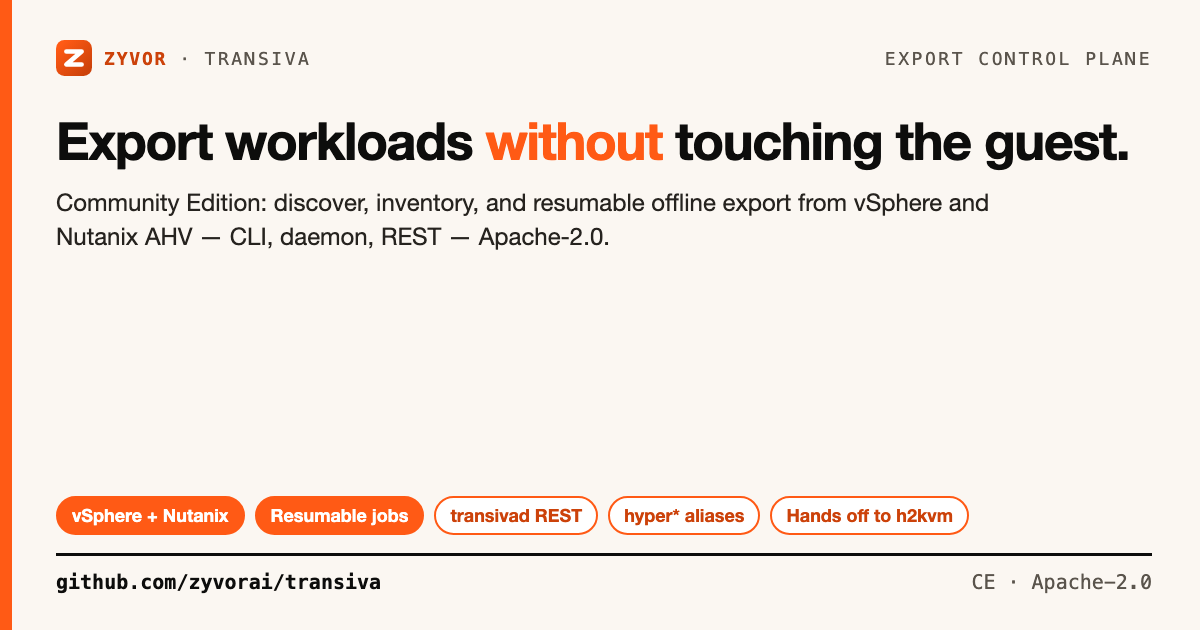
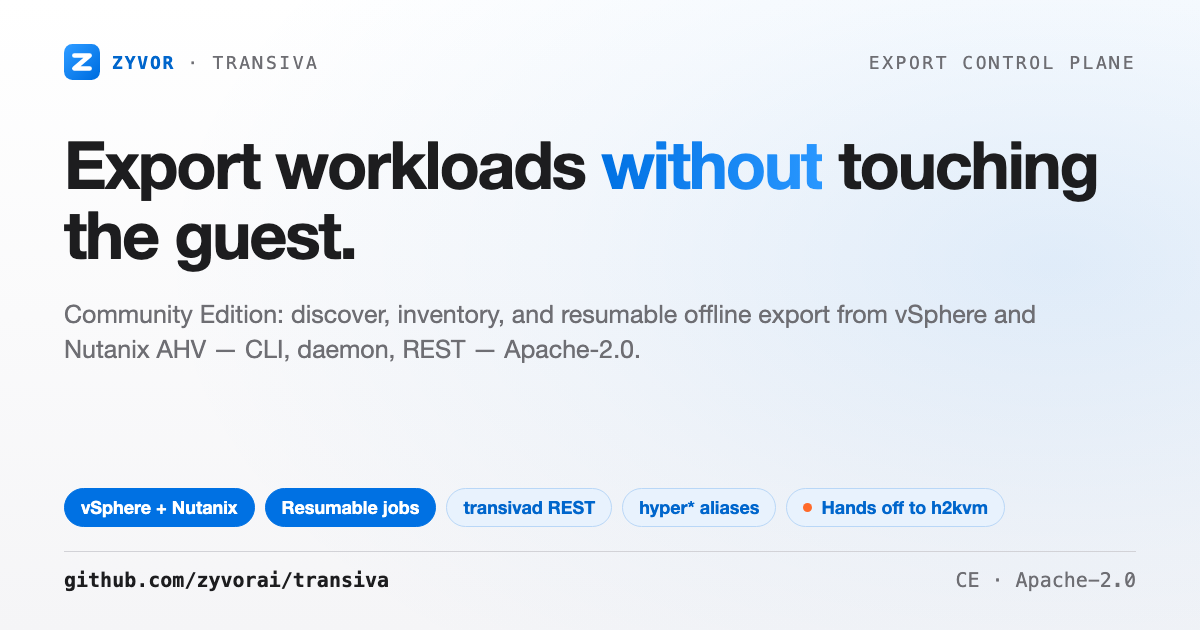
docs(social): apple-style blue/white cards, dark variant, build script
Restyle the share card and the 1600x900 story card in the blue/white palette
with a blue Zyvor mark and a single orange dot (the h2kvm hand-off), add a dark
share card for the README <picture>, and extend build-social-card.sh to render
it. Copy is unchanged and matches the Community Edition README.

Changed region(s): [[0.0, 0.0, 0.9867, 1.0], [0.7092, 0.0603, 0.9558, 0.1206], [0.4008, 0.3619, 0.5242, 0.3921]]

diff --git a/docs/social/transiva-social-card.html b/docs/social/transiva-social-card.html
@@ -4,59 +4,58 @@
 <meta charset="utf-8">
 <title>Transiva social card</title>
 <style>
-  :root { --ink:#0d0d0c; --soft:#5a544c; --signal:#ff5a15; --deep:#cc420a; --warm:#fbf7f2;
-    --blue:#2b5fd9; --green:#1f7a4d;
+  :root { --ink:#1d1d1f; --soft:#6e6e73; --hair:#d2d2d7; --blue:#0071e3; --blue2:#2997ff; --deep:#0066cc; --wash:#f5f5f7; --orange:#ff6a2a;
     --sans:'Helvetica Neue',Helvetica,Arial,sans-serif; --mono:'SF Mono',Menlo,Consolas,monospace; }
   * { box-sizing:border-box; }
   html,body { margin:0; padding:0; }
-  body { width:1600px; height:900px; overflow:hidden; background:var(--warm); color:var(--ink); font-family:var(--sans); position:relative; }
-  .bar { position:absolute; left:0; top:0; bottom:0; width:14px; background:var(--signal); }
-  .wrap { position:absolute; left:72px; right:64px; top:48px; bottom:40px; display:flex; flex-direction:column; }
+  body { width:1600px; height:900px; overflow:hidden; color:var(--ink); font-family:var(--sans); position:relative;
+    background:radial-gradient(1200px 700px at 90% 8%, rgba(0,113,227,.10), rgba(0,113,227,.03) 55%, rgba(0,113,227,0) 100%), linear-gradient(180deg,#fff 0%,var(--wash) 100%); }
+  .wrap { position:absolute; left:72px; right:72px; top:48px; bottom:40px; display:flex; flex-direction:column; }
   .top { display:flex; align-items:center; gap:14px; font-family:var(--mono); font-size:20px; letter-spacing:.14em; text-transform:uppercase; color:var(--soft); }
   .top img { height:40px; }
   .top b { color:var(--deep); letter-spacing:.1em; }
   .top .r { margin-left:auto; }
-  h1 { margin:26px 0 0; font-size:68px; line-height:1.06; letter-spacing:-.025em; font-weight:700; max-width:1440px; }
-  h1 em { font-style:normal; color:var(--signal); }
-  .sub { margin:16px 0 0; font-size:27px; line-height:1.36; color:#26231f; max-width:1320px; }
-  .flow { margin-top:34px; display:grid; grid-template-columns:repeat(5,1fr); gap:34px; }
-  .step { position:relative; background:#fff; border:2.5px solid var(--c); border-radius:16px; padding:18px 20px 18px 24px; min-height:222px; }
-  .step::before { content:""; position:absolute; left:0; top:0; bottom:0; width:9px; background:var(--c); border-radius:13px 0 0 13px; }
-  .step:not(:last-child)::after { content:""; position:absolute; right:-31px; top:50%; width:0; height:0; margin-top:-11px;
-    border-left:16px solid var(--soft); border-top:11px solid transparent; border-bottom:11px solid transparent; }
-  .lane { display:inline-block; font-family:var(--mono); font-size:15px; font-weight:700; letter-spacing:.12em; color:#fff; background:var(--c); padding:3px 10px; border-radius:11px; }
-  .n { float:right; width:34px; height:34px; border-radius:50%; background:var(--c); color:#fff; font-weight:700; font-size:19px; line-height:34px; text-align:center; }
-  .step h3 { margin:14px 0 8px; font-size:27px; line-height:1.14; letter-spacing:-.01em; }
-  .step p { margin:0; font-size:20.5px; line-height:1.34; color:var(--soft); }
-  .k { --c:var(--signal); } .a { --c:var(--ink); } .c { --c:var(--blue); } .o { --c:var(--green); } .o2 { --c:var(--deep); }
-  .attr { margin-top:22px; display:flex; align-items:center; gap:16px; background:var(--ink); color:#f3ede4; border-radius:12px; padding:13px 22px; font-family:var(--mono); font-size:22px; white-space:nowrap; }
-  .attr .tag { color:var(--signal); font-weight:700; letter-spacing:.1em; font-size:16px; }
-  .attr .why { margin-left:auto; color:#a39a8d; font-size:15px; letter-spacing:.06em; text-transform:uppercase; }
-  .chips { margin-top:auto; padding-top:22px; display:flex; flex-wrap:wrap; gap:10px; }
-  .chip { font-size:20px; font-weight:700; padding:5px 14px; border-radius:20px; background:var(--signal); color:#fff; border:2px solid var(--signal); }
-  .chip.g { background:#fff; color:var(--deep); border:2px solid var(--signal); }
-  .foot { margin-top:18px; padding-top:14px; border-top:3px solid var(--ink); display:flex; align-items:center; font-family:var(--mono); font-size:22px; color:var(--soft); }
+  h1 { margin:30px 0 0; font-size:74px; line-height:1.05; letter-spacing:-.034em; font-weight:700; max-width:1440px; }
+  h1 em { font-style:normal; background:linear-gradient(90deg,var(--blue),var(--blue2)); -webkit-background-clip:text; background-clip:text; color:transparent; }
+  .sub { margin:20px 0 0; font-size:27px; line-height:1.4; color:var(--soft); max-width:1320px; }
+  .flow { margin-top:44px; display:grid; grid-template-columns:repeat(5,1fr); gap:30px; }
+  .step { position:relative; background:#fff; border:1.5px solid var(--hair); border-radius:20px; padding:20px 22px 22px; min-height:280px;
+    box-shadow:0 1px 2px rgba(0,0,0,.04), 0 10px 26px rgba(0,40,120,.08); }
+  .step:not(:last-child)::after { content:""; position:absolute; right:-24px; top:50%; width:0; height:0; margin-top:-9px;
+    border-left:13px solid #8ec2f4; border-top:9px solid transparent; border-bottom:9px solid transparent; }
+  .lane { display:inline-block; font-family:var(--mono); font-size:15px; font-weight:700; letter-spacing:.12em; color:var(--deep); background:#e8f2fd; padding:4px 11px; border-radius:11px; }
+  .n { float:right; width:36px; height:36px; border-radius:50%; background:linear-gradient(135deg,var(--blue2),var(--blue)); color:#fff; font-weight:700; font-size:19px; line-height:36px; text-align:center; }
+  .step h3 { margin:16px 0 8px; font-size:28px; line-height:1.14; letter-spacing:-.012em; }
+  .step p { margin:0; font-size:20.5px; line-height:1.36; color:var(--soft); }
+  .step p b { color:var(--ink); }
+  .dot { display:inline-block; width:10px; height:10px; border-radius:50%; background:var(--orange); margin-left:10px; vertical-align:middle; }
+  .attr { margin-top:26px; display:flex; align-items:center; gap:18px; background:var(--ink); color:#f5f5f7; border-radius:14px; padding:15px 24px; font-family:var(--mono); font-size:22px; white-space:nowrap; }
+  .attr .tag { color:var(--blue2); font-weight:700; letter-spacing:.1em; font-size:16px; }
+  .attr .why { margin-left:auto; color:#98989d; font-size:15px; letter-spacing:.06em; text-transform:uppercase; }
+  .chips { margin-top:auto; padding-top:24px; display:flex; flex-wrap:wrap; gap:10px; }
+  .chip { font-size:20px; font-weight:700; padding:6px 16px; border-radius:22px; background:var(--blue); color:#fff; border:1.5px solid var(--blue); }
+  .chip.g { background:#e8f2fd; color:var(--deep); border:1.5px solid #b9d7f7; }
+  .foot { margin-top:20px; padding-top:16px; border-top:1px solid var(--hair); display:flex; align-items:center; font-family:var(--mono); font-size:22px; color:var(--soft); }
   .foot b { color:var(--ink); }
   .foot .r { margin-left:auto; }
 </style>
 </head>
 <body>
-<div class="bar"></div>
 <div class="wrap">
-  <div class="top"><img src="zyvor-logo.svg" alt=""><b>Zyvor</b><span>&middot;</span><span>Transiva CE</span><span class="r">Workload mobility</span></div>
+  <div class="top"><img src="zyvor-mark-blue.svg" alt=""><b>Zyvor</b><span>&middot;</span><span>Transiva CE</span><span class="r">Workload mobility</span></div>
   <h1>One workflow for <em>two</em> hypervisors.</h1>
   <p class="sub">Go control plane for offline export: same CLI and job model for VMware vSphere and Nutanix AHV. Source VMs stay untouched until cutover.</p>
   <div class="flow">
-    <div class="step k"><span class="lane">CONNECT</span><span class="n">1</span>
+    <div class="step"><span class="lane">CONNECT</span><span class="n">1</span>
       <h3>Provider config</h3><p>YAML credentials for vCenter or Nutanix — no guest agent, no phone-home.</p></div>
-    <div class="step a"><span class="lane">DISCOVER</span><span class="n">2</span>
+    <div class="step"><span class="lane">DISCOVER</span><span class="n">2</span>
       <h3>Inventory</h3><p><b>transivactl list</b> (compat: <b>hyperctl</b>) against the live provider API.</p></div>
-    <div class="step c"><span class="lane">EXPORT</span><span class="n">3</span>
+    <div class="step"><span class="lane">EXPORT</span><span class="n">3</span>
       <h3>Resumable job</h3><p><b>transivad</b> daemon + REST; retry mid-transfer instead of restarting from zero.</p></div>
-    <div class="step o"><span class="lane">ARTIFACT</span><span class="n">4</span>
+    <div class="step"><span class="lane">ARTIFACT</span><span class="n">4</span>
       <h3>Disk + metadata</h3><p>Output layout ready for conversion — offline artifacts only.</p></div>
-    <div class="step o2"><span class="lane">CONVERT</span><span class="n">5</span>
-      <h3>Hand to h2kvm</h3><p>hyper2kvm + GuestKit → KVM, KubeVirt, Zeus OS — conversion stays offline.</p></div>
+    <div class="step"><span class="lane">CONVERT</span><span class="n">5</span>
+      <h3>Hand to h2kvm<span class="dot"></span></h3><p>hyper2kvm + GuestKit → KVM, KubeVirt, Zeus OS — conversion stays offline.</p></div>
   </div>
   <div class="attr"><span class="tag">CE SCOPE</span><span>2 sources &nbsp;·&nbsp; CLI + REST &nbsp;·&nbsp; full exports (no CBT in CE)</span><span class="why">Honest</span></div>
   <div class="chips">

diff --git a/docs/social/transiva-share-card-dark.html b/docs/social/transiva-share-card-dark.html
@@ -2,14 +2,14 @@
 <html lang="en">
 <head>
 <meta charset="utf-8">
-<title>Transiva share card</title>
+<title>Transiva share card (dark)</title>
 <style>
-  :root { --ink:#1d1d1f; --soft:#6e6e73; --hair:#d2d2d7; --blue:#0071e3; --blue2:#2997ff; --deep:#0066cc; --wash:#f5f5f7; --orange:#ff6a2a;
+  :root { --ink:#f5f5f7; --soft:#a1a1a6; --hair:#2c2c2e; --blue:#0a84ff; --blue2:#64b5ff; --deep:#64b5ff; --orange:#ff6a2a;
     --sans:'Helvetica Neue',Helvetica,Arial,sans-serif; --mono:'SF Mono',Menlo,Consolas,monospace; }
   * { box-sizing:border-box; }
   html,body { margin:0; padding:0; }
   body { width:1200px; height:630px; overflow:hidden; color:var(--ink); font-family:var(--sans); position:relative;
-    background:radial-gradient(900px 520px at 88% 42%, rgba(0,113,227,.11), rgba(0,113,227,.04) 55%, rgba(0,113,227,0) 100%), linear-gradient(180deg,#fff 0%,var(--wash) 100%); }
+    background:radial-gradient(900px 520px at 88% 42%, rgba(41,151,255,.20), rgba(41,151,255,.07) 55%, rgba(41,151,255,0) 100%), linear-gradient(180deg,#000 0%,#0b0b0f 100%); }
   .wrap { position:absolute; left:64px; right:64px; top:44px; bottom:38px; display:flex; flex-direction:column; }
   .top { display:flex; align-items:center; gap:12px; font-family:var(--mono); font-size:18px; letter-spacing:.14em; text-transform:uppercase; color:var(--soft); }
   .top img { height:36px; }
@@ -20,7 +20,7 @@
   .sub { margin:26px 0 0; font-size:25px; line-height:1.42; color:var(--soft); max-width:980px; }
   .chips { margin-top:auto; display:flex; flex-wrap:wrap; gap:10px; padding-bottom:24px; }
   .chip { display:inline-flex; align-items:center; gap:9px; font-size:18px; font-weight:700; padding:7px 16px; border-radius:22px; background:var(--blue); color:#fff; border:1.5px solid var(--blue); }
-  .chip.g { background:#e8f2fd; color:var(--deep); border:1.5px solid #b9d7f7; }
+  .chip.g { background:#0a1a2e; color:var(--deep); border:1.5px solid #17335a; }
   .dot { width:9px; height:9px; border-radius:50%; background:var(--orange); display:inline-block; }
   .foot { padding-top:16px; border-top:1px solid var(--hair); display:flex; align-items:center; font-family:var(--mono); font-size:20px; color:var(--soft); }
   .foot b { color:var(--ink); }

diff --git a/docs/social/README.md b/docs/social/README.md
@@ -1,8 +1,38 @@
 # Social assets
 
-| File | What it is | Rebuild |
-|---|---|---|
-| `transiva-share-card.png` | 1200×630 README hero / Open Graph | `./docs/social/build-social-card.sh` |
-| `transiva-social-card.html` / `.jpg` | 1600×900 LinkedIn / X (five-step story) | same script |
+Transiva's social cards use the apple.com blue/white palette (the same system as the other Zyvor repos).
 
-Needs Google Chrome and macOS `sips`.
+| File | What it is |
+|---|---|
+| `transiva-share-card.html` / `.png` | 1200×630 light card: README hero and Open Graph image |
+| `transiva-share-card-dark.html` / `.png` | 1200×630 dark card: shown by the README `<picture>` in dark mode |
+| `transiva-social-card.html` / `.jpg` | 1600×900 (16:9) LinkedIn / X card (five-step story) |
+| `zyvor-mark-blue.svg` | the Zyvor "Z" mark in blue, used by the cards (`zyvor-logo.svg` is the original orange brand file) |
+
+## Palette
+
+| Role | Light | Dark |
+|---|---|---|
+| Background | `#ffffff` → `#f5f5f7`, faint blue wash | `#000000` → `#0b0b0f`, faint blue wash |
+| Text / secondary | `#1d1d1f` / `#6e6e73` | `#f5f5f7` / `#a1a1a6` |
+| Hairline | `#d2d2d7` | `#2c2c2e` |
+| Accent (blue) | `#0071e3` → `#2997ff` | `#0a84ff` → `#64b5ff` |
+| Orange | `#ff6a2a`, one dot per image (the h2kvm hand-off) | same |
+
+Fonts are Helvetica Neue and Menlo, so the cards render identically without web fonts.
+
+## Rebuild
+
+```bash
+./docs/social/build-social-card.sh
+```
+
+Needs Google Chrome and macOS `sips` (override the browser with `CHROME=/path/to/chrome`). The script writes the
+three outputs above.
+
+## GitHub Social preview
+
+GitHub's repository Social preview can't be set through the API. After changing the card, upload
+`docs/social/transiva-share-card.png` by hand in the repository's **Settings → Social preview**.
+
+Copy follows the project README (Community Edition scope: two sources, full exports, no CBT).
